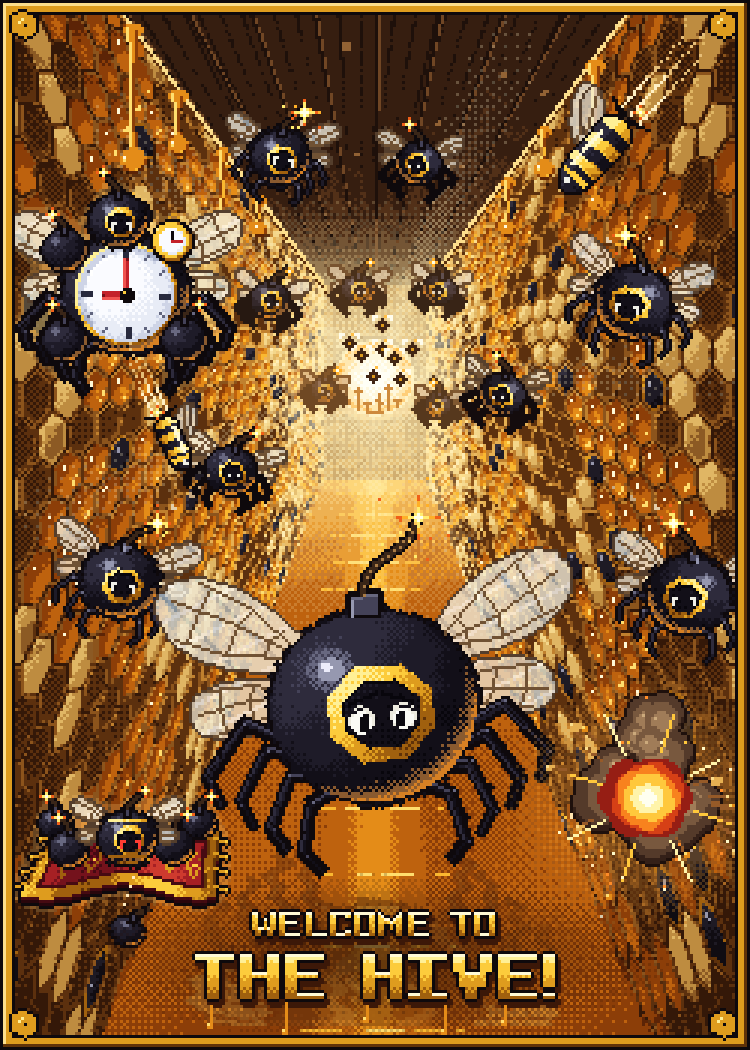
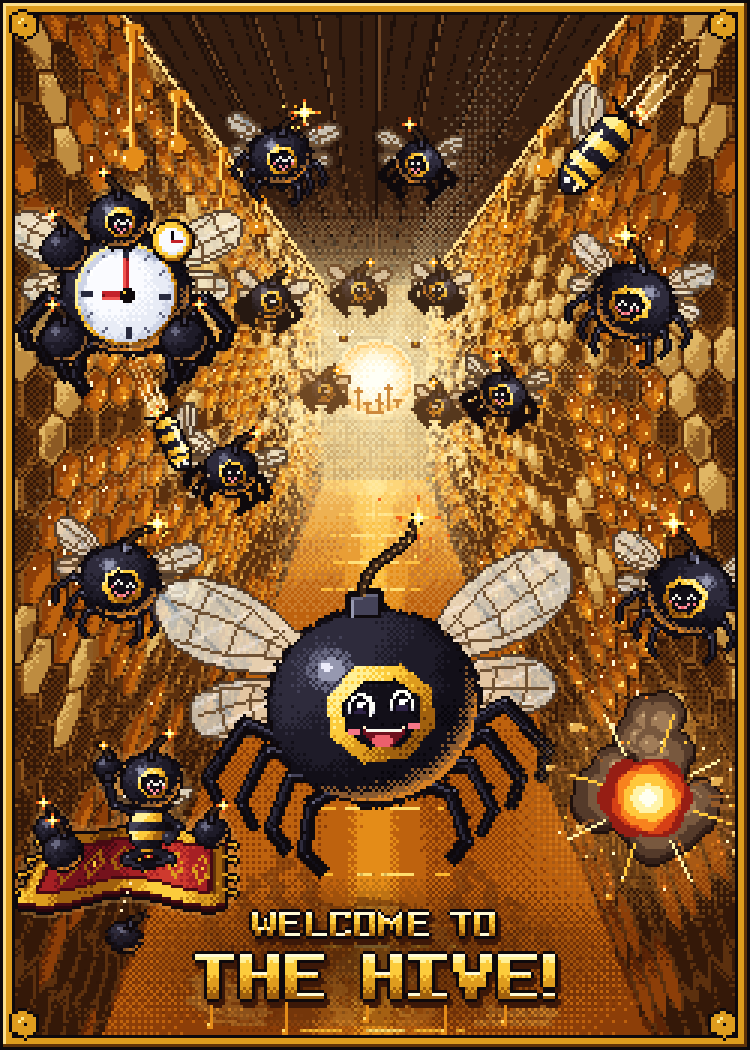
Welcome to the Hive: fröhliche Gesichter, humanoider Carpet Bomblebee, Pixelfehler behoben
Claude-Session: https://claude.ai/code/session_01QU6zaF1CRhUbwqrjdbxehJ

diff --git a/scripts/sleeve-entwuerfe/s09_bees.py b/scripts/sleeve-entwuerfe/s09_bees.py
@@ -57,7 +57,7 @@ def h2(a, b, s=0):
     return (np.sin(a * 12.9898 + b * 78.233 + s * 37.719) * 43758.5453) % 1.0
 
 
-def comb_surface(u, v, R, light, seed, thr, lu=(0.6, 0.8)):
+def comb_surface(u, v, R, light, seed, thr, lu=(0.6, 0.8), calm=None):
     """Wabenfläche auf (u, v) rendern. light: Array 0..1+. Gibt RGB-Array und Zellinfos zurück."""
     hexd, pu, pv, rx, rz, apo = hexcells(u, v, R)
     de = (1 - hexd) * apo
@@ -71,11 +71,17 @@ def comb_surface(u, v, R, light, seed, thr, lu=(0.6, 0.8)):
     kind = np.zeros(u.shape, int)  # 0 leer 1 Honig 2 Deckel 3 Bombe
     kind[(clus + rn * 0.4) > 0.72] = 1
     kind[(clus < 0.42) & (rn < 0.55)] = 2
-    kind[rn2 < 0.05] = 3
+    apo_px = apo / np.maximum(g, 1e-4)
+    # Bomben-Brut nur dort, wo die Zelle groß und unverzerrt genug ist, um als Kuppel lesbar zu sein
+    ok3 = apo_px >= 5.5
+    if calm is not None:
+        ok3 &= calm
+        # stark verzerrte Zellen (Ecken zum Boden/zur Decke): keine hellen Deckel / schwarzen Kuppeln
+        kind[~calm & (kind >= 2)] = np.where(rn[~calm & (kind >= 2)] < 0.5, 0, 1)
+    kind[(kind == 3) & ~ok3] = 1
     r = np.hypot(pu, pv) + 1e-6
     nx, ny = pu / r, pv / r
     L_ = nx * lu[0] + ny * lu[1]
-    apo_px = apo / np.maximum(g, 1e-4)
     fine = apo_px >= 4.5
     wall = (de_px < 1.05) | (de < 0.08 * apo)
     seam = de_px < 0.5
@@ -124,6 +130,68 @@ WINGC = (242, 238, 222)
 VEIN = (112, 82, 52)
 WEDGE = (84, 62, 44)
 
+
+SMILE = (255, 238, 196)
+SMILE_S = (255, 150, 160)   # kleiner Mund: rosa, damit er nicht wie ein Totenkopf-Grinsen wirkt
+BLUSH = (246, 118, 136)
+MOUTH = (110, 16, 30)
+TONGUE = (236, 96, 108)
+
+
+def happy_face(db, T, R, fcx, fcy, eye_col=(240, 240, 232)):
+    """Fröhliches Gesicht im Goldring: große Augen mit Glanz oben / ^^-Augen, Grinsen, Wangenröte."""
+    ec = tuple(eye_col) + (255,)
+    if R >= 20:
+        for s_ in (-1, 1):
+            e0 = T(fcx + s_ * 0.2 * R, fcy - 0.08 * R)
+            ew, eh = 0.11 * R, 0.14 * R
+            db.ellipse((e0[0] - ew, e0[1] - eh, e0[0] + ew, e0[1] + eh), fill=(206, 206, 218, 255))
+            db.ellipse((e0[0] - ew, e0[1] - eh, e0[0] + ew, e0[1] + eh - 1), fill=(252, 252, 246, 255))
+            pw, ph = ew * 0.78, eh * 0.84
+            pc = (e0[0] + s_ * 0.4, e0[1] + 0.6)
+            db.ellipse((pc[0] - pw, pc[1] - ph, pc[0] + pw, pc[1] + ph), fill=(14, 10, 20, 255))
+            db.ellipse((pc[0] - pw * 0.55, pc[1] - ph * 0.1, pc[0] + pw * 0.55, pc[1] + ph * 0.8), fill=(46, 34, 70, 255))
+            # Glanzlichter OBEN (fröhlich, lebendig)
+            hx_, hy_ = int(round(pc[0] - pw * 0.55)), int(round(pc[1] - ph * 0.65))
+            db.rectangle((hx_, hy_, hx_ + 1, hy_ + 1), fill=(255, 255, 255, 255))
+            db.point((int(round(pc[0] + pw * 0.35)), int(round(pc[1] - ph * 0.55))), fill=(255, 255, 255, 255))
+            # lachende Wangen schieben das Auge unten hoch
+            db.chord((e0[0] - ew - 1, e0[1] + eh * 0.55, e0[0] + ew + 1, e0[1] + eh * 2.2), 180, 360, fill=BLACK[1] + (255,))
+            # Wangenröte
+            b0 = T(fcx + s_ * 0.3 * R, fcy + 0.14 * R)
+            db.rectangle((b0[0] - 1.5, b0[1], b0[0] + 1.5, b0[1] + 1), fill=BLUSH + (255,))
+        # breites Grinsen: oben flach, unten rund, Zähne + Zunge
+        m0 = T(fcx, fcy + 0.16 * R)
+        mw, mh = 0.2 * R, 0.17 * R
+        box = (m0[0] - mw, m0[1] - mh, m0[0] + mw, m0[1] + mh)
+        db.chord(box, 0, 180, fill=MOUTH + (255,))
+        db.line((m0[0] - mw + 1, m0[1], m0[0] + mw - 1, m0[1]), fill=(250, 246, 236, 255))
+        db.ellipse((m0[0] - mw * 0.45, m0[1] + mh * 0.35, m0[0] + mw * 0.45, m0[1] + mh * 0.95), fill=TONGUE + (255,))
+        db.point((m0[0] - mw, m0[1] - 1), fill=SMILE + (255,)); db.point((m0[0] + mw, m0[1] - 1), fill=SMILE + (255,))
+    else:
+        ri = 0.56 * R - max(1.2, 0.16 * R)   # Innenradius des Goldrings
+        for s_ in (-1, 1):
+            e0 = T(fcx + s_ * 0.45 * ri, fcy - 0.3 * ri)
+            x_, y_ = int(round(e0[0])), int(round(e0[1]))
+            if R >= 9:
+                pts = [(x_ - 1, y_ + 1), (x_, y_), (x_ + 1, y_ + 1)]   # ^-Auge
+            else:
+                pts = [(x_, y_)]
+            db.point(pts, fill=ec)
+            if R >= 9:
+                bl = T(fcx + s_ * 0.72 * ri, fcy + 0.2 * ri)
+                db.point((int(round(bl[0])), int(round(bl[1]))), fill=BLUSH + (255,))
+        if ri >= 2.5:
+            m0 = T(fcx, fcy + 0.36 * ri)
+            mx, my = int(round(m0[0])), int(round(m0[1]))
+            w_ = max(1, int(round(0.38 * ri)))
+            db.point([(mx - w_, my), (mx + w_, my)], fill=SMILE_S + (255,))
+            if w_ >= 2:
+                db.line((mx - w_ + 1, my + 1, mx + w_ - 1, my + 1), fill=SMILE_S + (255,))
+                if R >= 12:
+                    db.point((mx, my + 1), fill=TONGUE + (255,))
+            else:
+                db.point((mx, my + 1), fill=SMILE_S + (255,))
 
 def bee(R, tilt=0.0, flip=False, wing=0.0, fuse=1.0, rim=(214, 128, 36), eyes=True, seed=0, brow=True,
         show_wings=True, show_legs=True, show_face=True, show_fuse=True, wing_R=None, fuse_dir=1, stripes=False,
@@ -292,28 +360,7 @@ def bee(R, tilt=0.0, flip=False, wing=0.0, fuse=1.0, rim=(214, 128, 36), eyes=Tr
         body = Image.fromarray(ba)
         db = ImageDraw.Draw(body)
         if eyes:
-            for s_ in (-1, 1):
-                ex, ey = fcx + s_ * 0.2 * R, fcy + 0.04 * R
-                e0 = T(ex, ey)
-                if R >= 20:
-                    ew, eh = 0.12 * R, 0.13 * R
-                    db.ellipse((e0[0] - ew, e0[1] - eh, e0[0] + ew, e0[1] + eh), fill=(236, 234, 222, 255))
-                    db.ellipse((e0[0] - ew + 1, e0[1] - eh + 2, e0[0] + ew - 1, e0[1] + eh), fill=(250, 250, 244, 255))
-                    pxp = e0[0] - s_ * ew * 0.25
-                    db.rectangle((pxp - 1, e0[1] - 1, pxp + 1, e0[1] + eh - 1), fill=(12, 10, 16, 255))
-                    db.point((pxp - 1, e0[1] - 1), fill=(255, 255, 255, 255))
-                    if brow:
-                        b0 = T(ex - s_ * 0.17 * R, ey - 0.25 * R); b1 = T(ex + s_ * 0.13 * R, ey - 0.13 * R)
-                        db.line([b0, b1], fill=BLACK[0] + (255,), width=2)
-                        # Lid schneidet Augenoberkante
-                        db.line([T(ex - s_ * 0.15 * R, ey - 0.17 * R), T(ex + s_ * 0.14 * R, ey - 0.05 * R)], fill=BLACK[1] + (255,), width=1)
-                elif R >= 9:
-                    x0, y0 = int(round(e0[0])) - (1 if s_ < 0 else 0), int(round(e0[1])) - 1
-                    db.rectangle((x0, y0, x0 + 1, y0 + 2), fill=tuple(eye_col) + (255,))
-                    db.point((x0 + (1 if s_ < 0 else 0), y0 + 2), fill=(12, 10, 16, 255))
-                    db.point((x0 + (1 if s_ < 0 else 0), y0 + 1), fill=(12, 10, 16, 255))
-                else:
-                    db.point((round(e0[0]), round(e0[1])), fill=(240, 240, 232, 255))
+            happy_face(db, T, R, fcx, fcy, eye_col)
     tipx = tipy = None
     if show_fuse:
         # ---- Zündschnur ----
@@ -500,14 +547,86 @@ def time_bomblebee_hd(Rc=20, seed=40):
 CARPET = [(70, 10, 18), (116, 18, 28), (166, 32, 36), (206, 58, 46), (236, 104, 72)]
 
 
-def carpet_bomblebee_hd(Wc=64, Dc=20, seed=50):
-    """Fliegender Teppich (rot, Goldborte, Quasten) mit Hummel-Bomblebee und vier Bomben."""
-    CW, CH = Wc + 28, Dc + 46
+def carpet_rider(seed=61):
+    """Humanoider Carpet Bomblebee: Bombenkopf mit Goldring, gestreifter Oberkörper, Arme (einer wirft eine Bombe),
+    im Schneidersitz, kleine Flügel. Rückgabe: Sprite, Sitzpunkt (unten Mitte), Funken."""
+    CW_, CH_ = 48, 56
+    im_ = Image.new('RGBA', (CW_, CH_), (0, 0, 0, 0))
+    cx_, sy_ = 22, 50                       # Sitzpunkt
+    th_ = bayer((CH_, CW_))
+    sparks_ = []
+    # Flügel hinter dem Rücken
+    wl_ = Image.new('RGBA', (CW_, CH_), (0, 0, 0, 0))
+    dw_ = ImageDraw.Draw(wl_)
+    for sd in (-1, 1):
+        bx_, by_ = cx_ + sd * 3, sy_ - 17
+        pts = []
+        for k in range(24):
+            t_ = k / 24 * 2 * math.pi
+            uu = (1 - math.cos(t_)) / 2
+            pts.append((bx_ + sd * uu * 12 + math.sin(t_) * 2.2 * (0.6 + 0.4 * uu) * 0.6, by_ - uu * 7 + math.sin(t_) * 2.6 * (0.6 + 0.4 * uu)))
+        dw_.polygon(pts, fill=WINGC + (200,), outline=WEDGE + (255,))
+        dw_.line((bx_ + sd * 1, by_ - 1, bx_ + sd * 9, by_ - 5), fill=VEIN + (255,))
+        dw_.point((bx_ + sd * 5, by_ - 5), fill=(255, 255, 250, 220))
+    im_.alpha_composite(wl_)
+    body_ = Image.new('RGBA', (CW_, CH_), (0, 0, 0, 0))
+    db_ = ImageDraw.Draw(body_)
+    # Beine im Schneidersitz
+    for sd in (-1, 1):
+        db_.line((cx_ + sd * 2, sy_ - 4, cx_ + sd * 8, sy_ - 1), fill=BLACK[2], width=3)
+        db_.line((cx_ + sd * 8, sy_ - 1, cx_ + sd * 2, sy_ + 1), fill=BLACK[3], width=2)
+        db_.point((cx_ + sd * 7, sy_ - 2), fill=BLACK[5])
+        db_.rectangle((cx_ + sd * 1 - 1, sy_, cx_ + sd * 1 + 1, sy_ + 1), fill=BLACK[1])
+    # Oberkörper: aufrechtes Oval mit Hummelstreifen
+    ba_ = np.array(body_)
+    Y_, X_ = np.mgrid[0:CH_, 0:CW_].astype(float)
+    tcx, tcy, trx, try_ = cx_, sy_ - 11, 5.6, 8.2
+    q_ = ((X_ + 0.5 - tcx) / trx) ** 2 + ((Y_ + 0.5 - tcy) / try_) ** 2
+    ins_ = q_ <= 1
+    nx_, ny_ = (X_ + 0.5 - tcx) / trx, (Y_ + 0.5 - tcy) / try_
+    sh_ = np.clip(0.62 - 0.45 * nx_ - 0.3 * ny_, 0, 1)
+    stripe = (np.floor((Y_ - (tcy - try_)) / 3) % 2 == 1)
+    gc_ = ramp(np.clip(sh_ * 1.1, 0, 1), GOLD, 0.5 + (th_ - 0.5) * 0.6)
+    bc2 = ramp(np.clip(sh_ * 0.8, 0, 1), BLACK[:6], 0.5 + (th_ - 0.5) * 0.6)
+    col_ = np.where(stripe[..., None], gc_, bc2)
+    ba_[ins_, :3] = col_[ins_]; ba_[ins_, 3] = 255
+    body_ = Image.fromarray(ba_)
+    db_ = ImageDraw.Draw(body_)
+    # Arme: links wirft eine Bombe (hoch erhoben), rechts winkt / stützt die Hüfte
+    sh_l, sh_r = (cx_ - 5, sy_ - 16), (cx_ + 5, sy_ - 16)
+    el_l, hd_l = (cx_ - 11, sy_ - 19), (cx_ - 13, sy_ - 27)
+    el_r, hd_r = (cx_ + 10, sy_ - 12), (cx_ + 7, sy_ - 8)
+    for (a0, a1, a2) in ((sh_l, el_l, hd_l), (sh_r, el_r, hd_r)):
+        db_.line((a0, a1), fill=BLACK[2], width=2)
+        db_.line((a1, a2), fill=BLACK[2], width=2)
+        db_.point(a1, fill=BLACK[5])
+        db_.ellipse((a2[0] - 1.5, a2[1] - 1.5, a2[0] + 1.5, a2[1] + 1.5), fill=BLACK[3])
+        db_.point((a2[0] - 1, a2[1] - 1), fill=BLACK[5])
+    body_ = outline(body_, K + (255,))
+    im_.alpha_composite(body_)
+    # Kopf: Bombe mit Goldring-Gesicht (fröhlich), Zündschnur oben
+    hd_, hc_, hsp_ = bee(9, show_wings=False, show_legs=False, seed=seed, fuse_dir=1)
+    px_, py_ = int(cx_ + 1 - hc_[0]), int(sy_ - 27 - hc_[1])
+    im_.alpha_composite(hd_, (px_, py_))
+    sparks_.append((px_ + hsp_[0], py_ + hsp_[1], 2))
+    # Bombe in der erhobenen Hand
+    bm_, bc_, bsp_ = small_bomb(4, seed + 3, fuse_dir=-1)
+    px_, py_ = int(hd_l[0] - bc_[0]), int(hd_l[1] - 4 - bc_[1])
+    im_.alpha_composite(bm_, (px_, py_))
+    sparks_.append((px_ + bsp_[0], py_ + bsp_[1], 1))
+    # Hand vor der Bombe
+    dh = ImageDraw.Draw(im_)
+    dh.ellipse((hd_l[0] - 1.5, hd_l[1] - 2.5, hd_l[0] + 1.5, hd_l[1] + 0.5), fill=BLACK[3], outline=K)
+    return im_, (cx_, sy_), sparks_
+
+
+def carpet_bomblebee_hd(Wc=68, Dc=21, seed=50):
+    """Fliegender Teppich (rot, Goldborte, Quasten) mit humanoidem Carpet Bomblebee und Bomben."""
+    CW, CH = Wc + 28, Dc + 62
     img = Image.new('RGBA', (CW, CH), (0, 0, 0, 0))
     a_ = np.array(img)
     top = np.full(CW, 10 ** 6); bot = np.full(CW, -1)
-    ox, oy = 12, 28
-    cols_done = {}
+    ox, oy = 12, 44
     for vi in range(int(Dc * 3) + 1):
         v = vi / (Dc * 3)
         for ui in range(int(Wc * 3) + 1):
@@ -562,19 +681,19 @@ def carpet_bomblebee_hd(Wc=64, Dc=20, seed=50):
             d.point((x + 4 * dxs, y + 2), fill=GOLD[1])
     img = outline(img, K + (255,))
     sparks = []
-    # Bomben: zwei links, zwei rechts (gestapelt wie auf der Karte)
-    for (bx_, by_, R_, fd) in [(0.1, 0.1, 5, -1), (0.86, 0.08, 5, 1), (0.2, 0.55, 6, -1), (0.76, 0.52, 6, 1)]:
+    # Bomben: zwei gestapelt links, eine rechts hinten (wie auf der Karte)
+    for (bx_, by_, R_, fd) in [(0.1, 0.12, 5, -1), (0.18, 0.55, 6, -1), (0.9, 0.2, 5, 1)]:
         bm, bc_, bsp = small_bomb(R_, seed + int(bx_ * 100), fuse_dir=fd)
         cxb = ox + bx_ * Wc + (1 - by_) * 5
         cyb = oy + by_ * Dc - R_ * 0.6
         px, py = int(cxb - bc_[0]), int(cyb - bc_[1])
         img.alpha_composite(bm, (px, py))
         sparks.append((px + bsp[0], py + bsp[1], 2))
-    # Hummel-Bomblebee in der Mitte (rote Augen wie auf der Karte)
-    hb, hc_, hsp = bee(9, stripes=True, eye_col=(255, 60, 50), seed=seed + 1, wing=0.3, brow=False, show_legs=False)
-    px, py = int(ox + Wc * 0.5 + 4 - hc_[0]), int(oy + Dc * 0.45 - 6 - hc_[1])
-    img.alpha_composite(hb, (px, py))
-    sparks.append((px + hsp[0], py + hsp[1], 2))
+    # Reiter: humanoider Carpet Bomblebee im Schneidersitz
+    rd, (rx_, ry_), rsp = carpet_rider(seed + 1)
+    px, py = int(ox + Wc * 0.58 + 4 - rx_), int(oy + Dc * 0.5 - ry_)
+    img.alpha_composite(rd, (px, py))
+    sparks += [(px + x_, py + y_, s_) for (x_, y_, s_) in rsp]
     bb = img.getbbox()
     img = img.crop(bb)
     sparks = [(x - bb[0], y - bb[1], s) for (x, y, s) in sparks]
@@ -604,7 +723,15 @@ light = np.clip(0.5 + 0.13 * z - 0.42 * np.clip(vig - 0.35, 0, 1), 0, 1.2)
 a = np.zeros((H, W, 4), np.uint8); a[..., 3] = 255
 u = np.where(surf == 0, 1, -1) * 1.6 * np.log(np.maximum(z, 0.3))
 v = Y
-wallrgb = comb_surface(u, v, 0.088, light, 5, thrs)
+# Verzerrung der Wandabbildung (Scherung Richtung Boden-/Deckenkante) messen
+uy_, ux_ = np.gradient(u); vy_, vx_ = np.gradient(v)
+Jm = np.stack([np.stack([ux_, uy_], -1), np.stack([vx_, vy_], -1)], -2).reshape(-1, 2, 2)
+svals = np.linalg.svd(Jm, compute_uv=False).reshape(H, W, 2)
+distort = svals[..., 0] / np.maximum(svals[..., 1], 1e-9)
+calm = distort < 3.0
+# Umgebungsverdeckung in den verzerrten Ecken -> treten zurück statt als Schlieren aufzufallen
+wlight = light * (1 - 0.38 * np.clip((distort - 2.6) / 2.6, 0, 1))
+wallrgb = comb_surface(u, v, 0.088, wlight, 5, thrs, calm=calm)
 m = surf <= 1
 a[m, :3] = wallrgb[m]
 # ---- Decke: Holzleisten (Rähmchen-Oberträger) ----
@@ -618,9 +745,6 @@ wl = np.where(gline, wl - 0.14, wl)
 woodc = ramp(wl, WOOD, thrs)
 woodc[fx < 0.06] = WOOD[0]
 woodc[(fx > 0.06) & (fx < 0.1)] = WOOD[3]
-# Nägel
-nail = (np.abs(fx - 0.5) < 0.06) & ((z * 1.2 + pn) % 1 < 0.05) & (z < 2.6) & (z > 1.5)
-woodc[nail] = WOOD[4]
 m = surf == 2
 a[m, :3] = woodc[m]
 # ---- Boden: Honigsee mit Lichtspiegelung ----
@@ -693,18 +817,16 @@ blend_to(a, rt * ~hole, (255, 244, 200), 4)
 im = Image.fromarray(a)
 
 
-def tiny_bee(d, x, y, r, dark=(66, 38, 20), wingc=(255, 252, 236)):
-    """Winzige Gegenlicht-Biene (Silhouette) für die Ferne."""
+def tiny_bee(d, x, y, r, dark=(122, 76, 38), wingc=(255, 252, 236)):
+    """Winzige Gegenlicht-Biene für die Ferne: dunkler Körper, zwei helle Flügelstriche (keine Kreuzform)."""
     x, y = int(round(x)), int(round(y))
-    if r <= 1:
+    if r <= 2:
         d.point([(x, y), (x + 1, y)], fill=dark)
         d.point([(x - 1, y - 1), (x + 2, y - 1)], fill=wingc)
         return
-    d.rectangle((x - 1, y - 1, x + 1, y + 1), fill=dark)
-    d.point([(x - 2, y), (x + 2, y), (x, y - 2), (x, y + 2)], fill=dark)
-    d.point([(x - 3, y - 2), (x - 2, y - 3), (x - 3, y - 3), (x + 3, y - 2), (x + 2, y - 3), (x + 3, y - 3)], fill=wingc)
+    d.rectangle((x - 1, y, x + 1, y + 1), fill=dark)
     d.point((x, y), fill=GOLD[2])
-    d.point((x + 1, y - 3), fill=(255, 190, 70))
+    d.point([(x - 2, y - 1), (x - 3, y - 2), (x + 2, y - 1), (x + 3, y - 2)], fill=wingc)
 
 
 def proj(Xw, Yw, zw):
@@ -746,9 +868,7 @@ d = ImageDraw.Draw(im)
 BR = 0.1
 # (X, Y, z, tilt, flip, wing)
 swarm3d = [
-    (0.1, -0.12, 6.4, 0, False, 0),
-    (-0.22, 0.02, 5.7, 0, False, 0), (0.26, 0.06, 5.4, 0, True, 0), (-0.05, 0.3, 5.0, 0, False, 0),
-    (0.3, 0.3, 4.4, 0, True, 0), (-0.32, -0.14, 4.0, 0, False, 0), (0.05, -0.3, 3.7, 0, False, 0), (0.36, -0.06, 3.5, 0, True, 0),
+    (-0.36, -0.2, 4.0, 0, False, 0), (0.4, -0.12, 3.5, 0, True, 0),
     (-0.45, 0.35, 3.2, 8, False, 0.2), (0.5, 0.42, 2.8, -8, True, 0.1), (-0.12, -0.46, 2.6, 4, False, 0.3), (0.42, -0.4, 2.3, -10, True, 0.2),
     (-0.58, -0.3, 2.0, 10, False, 0.1), (-0.6, 0.5, 1.5, 12, False, 0.0), (-0.34, -0.72, 1.3, 6, False, 0.2),
     (0.62, 0.2, 1.7, -12, True, 0.3), (0.2, -0.86, 1.6, -6, True, 0.2),
@@ -889,6 +1009,10 @@ def dive_bee(img, cx, cy, L, ang, seed=0):
     col[ring_] = GOLD[3]
     eye = ins & (np.abs(u_ - half * 0.8) < 1.0) & (np.abs(v_ + r_ * 0.2) < 1.0)
     col[eye] = (240, 240, 232)
+    eyehi = eye & (v_ < -r_ * 0.2) & (u_ < half * 0.8)
+    col[eyehi] = (255, 255, 255)
+    smile_ = ins & (np.abs(u_ - half * 0.78) < 1.3) & (np.abs(v_ - r_ * 0.42) < 0.55)
+    col[smile_] = SMILE
     spec = ins & (np.abs(v_ + r_ * 0.62) < 0.6) & (u_ > -half * 0.6) & (u_ < half * 0.5)
     col[spec] = (255, 250, 214)
     sp = np.zeros((S2, S2, 4), np.uint8)
@@ -934,7 +1058,7 @@ dive_bee(im, 58, 148, 18, 66, seed=2)
 
 # ---- Carpet Bomblebee auf fliegendem Teppich (vorne links) ----
 cb, cb_sparks = carpet_bomblebee_hd()
-CBX, CBY = 3, 262
+CBX, CBY = 2, 243
 put_sprite(im, cb, (CBX, CBY), (255, 200, 110, 255), strength=0.3)
 d = ImageDraw.Draw(im)
 for (x_, y_, s_) in cb_sparks:
